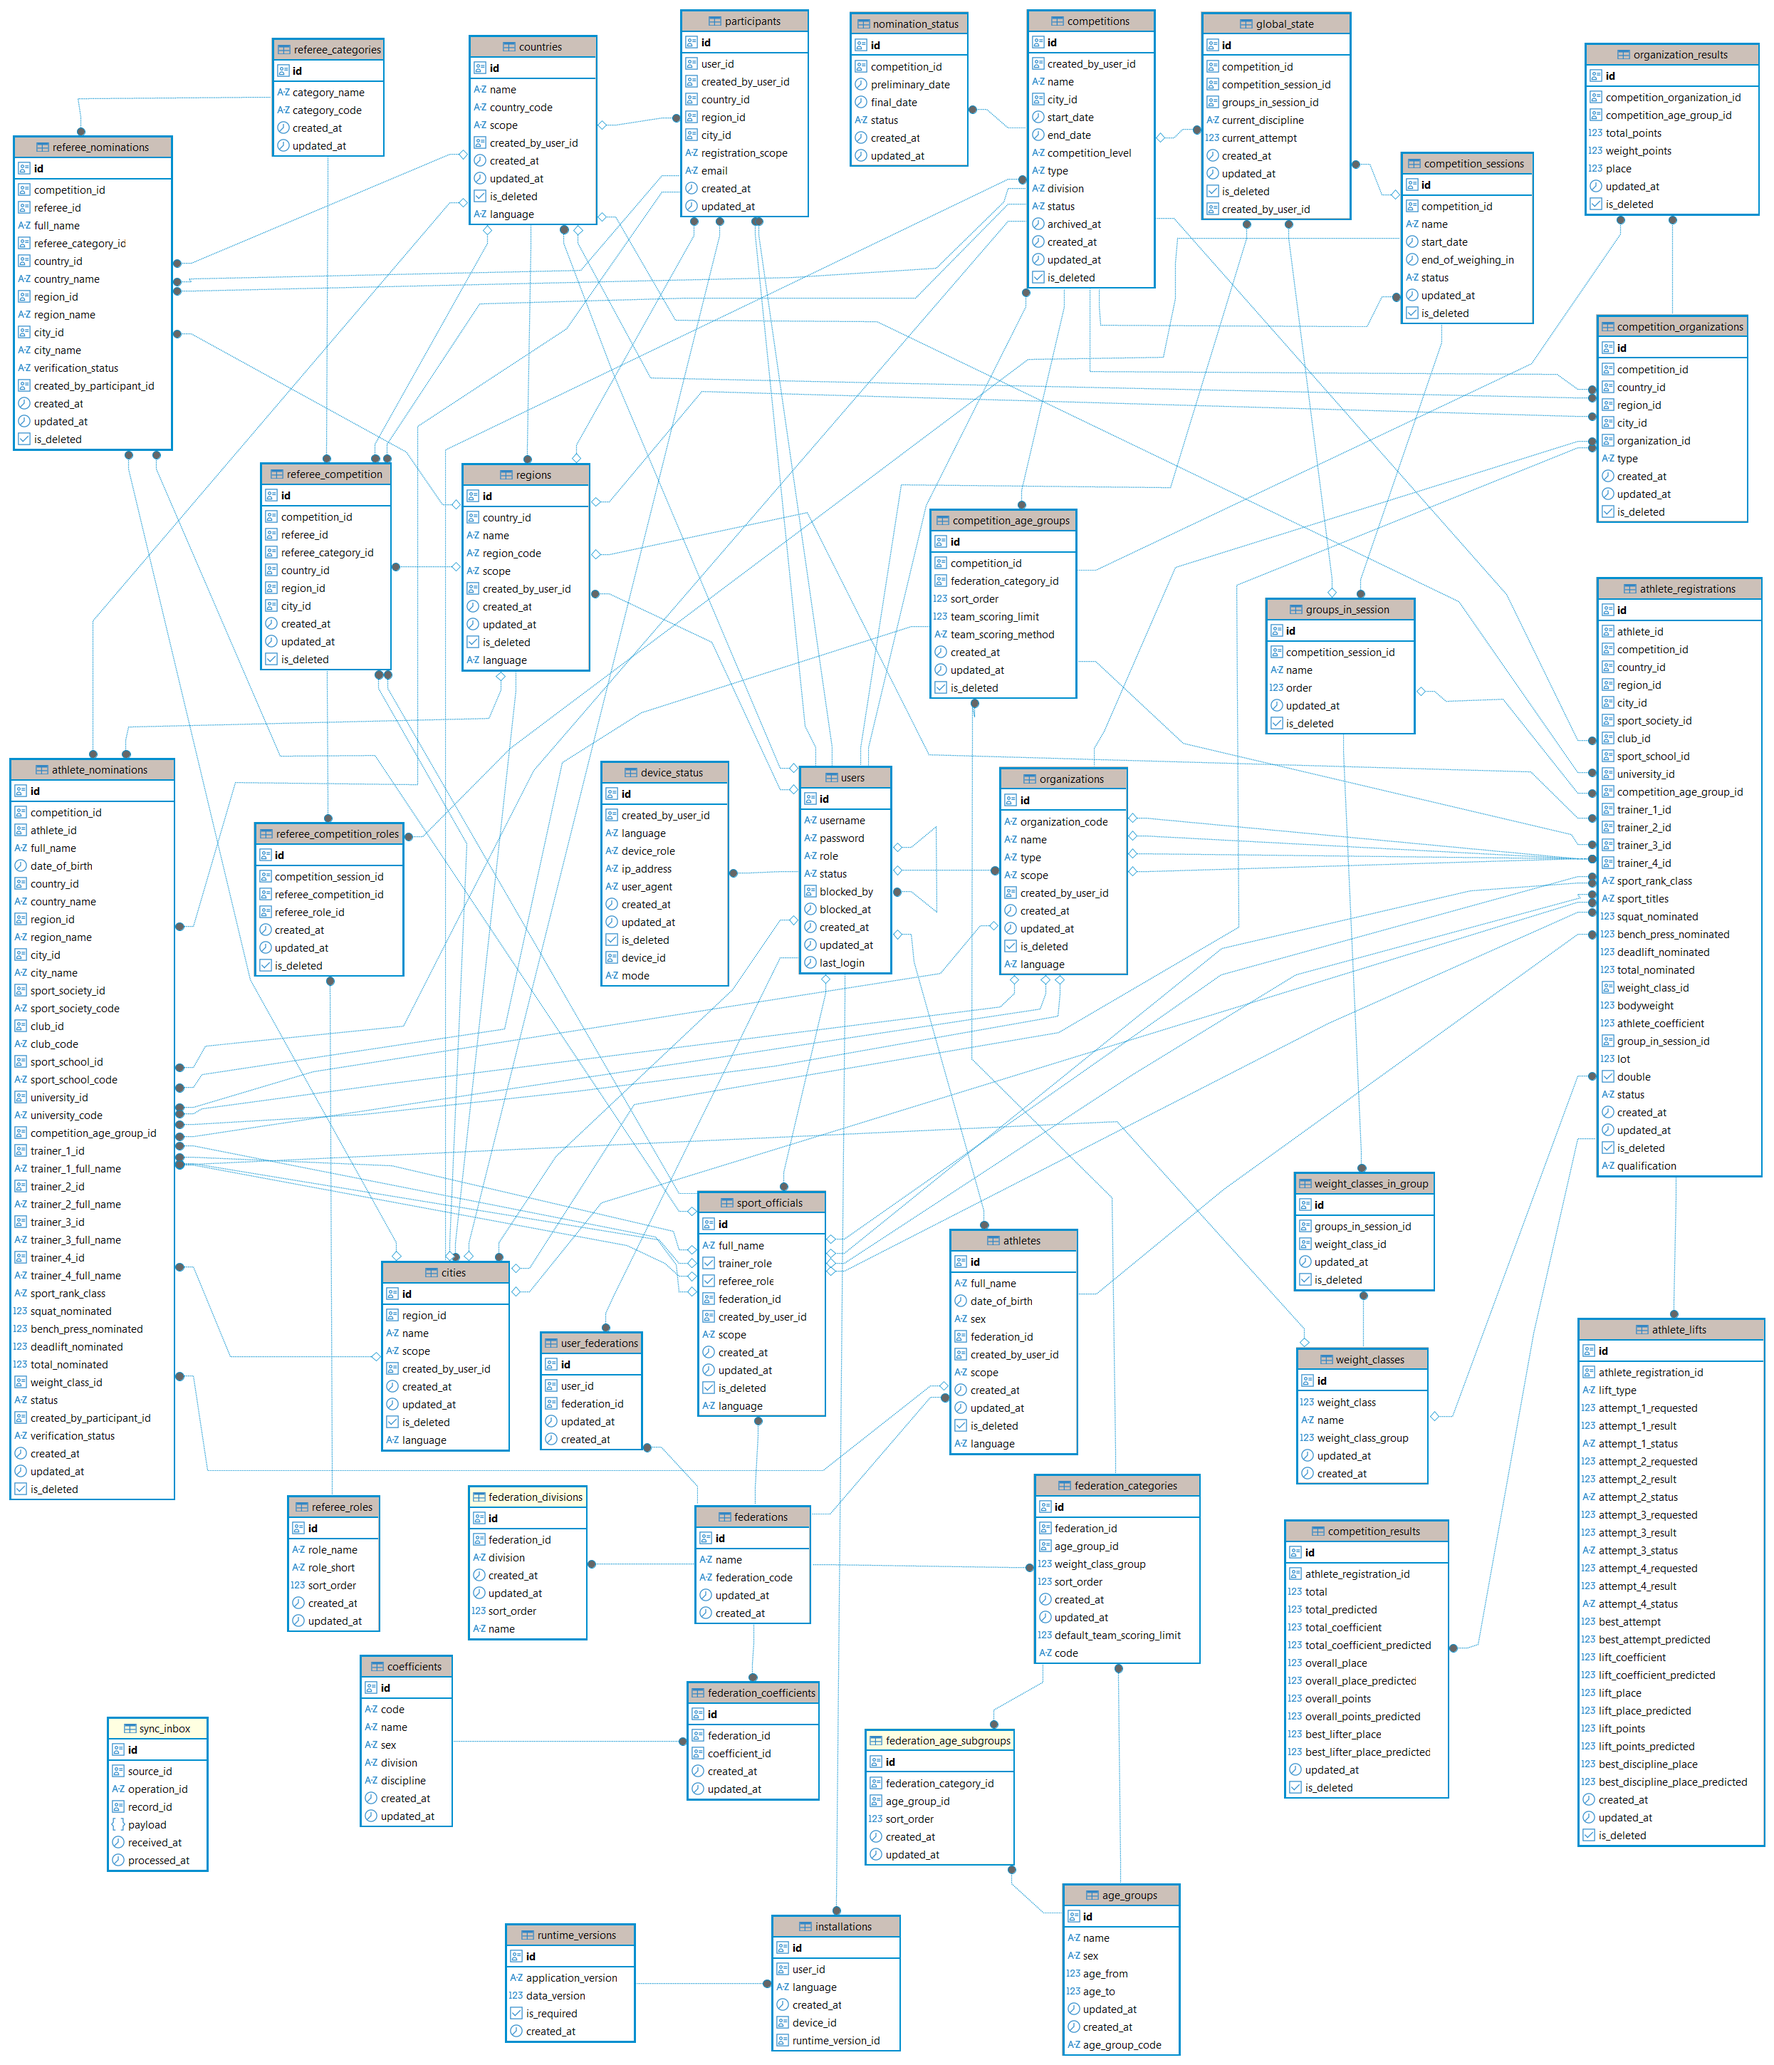
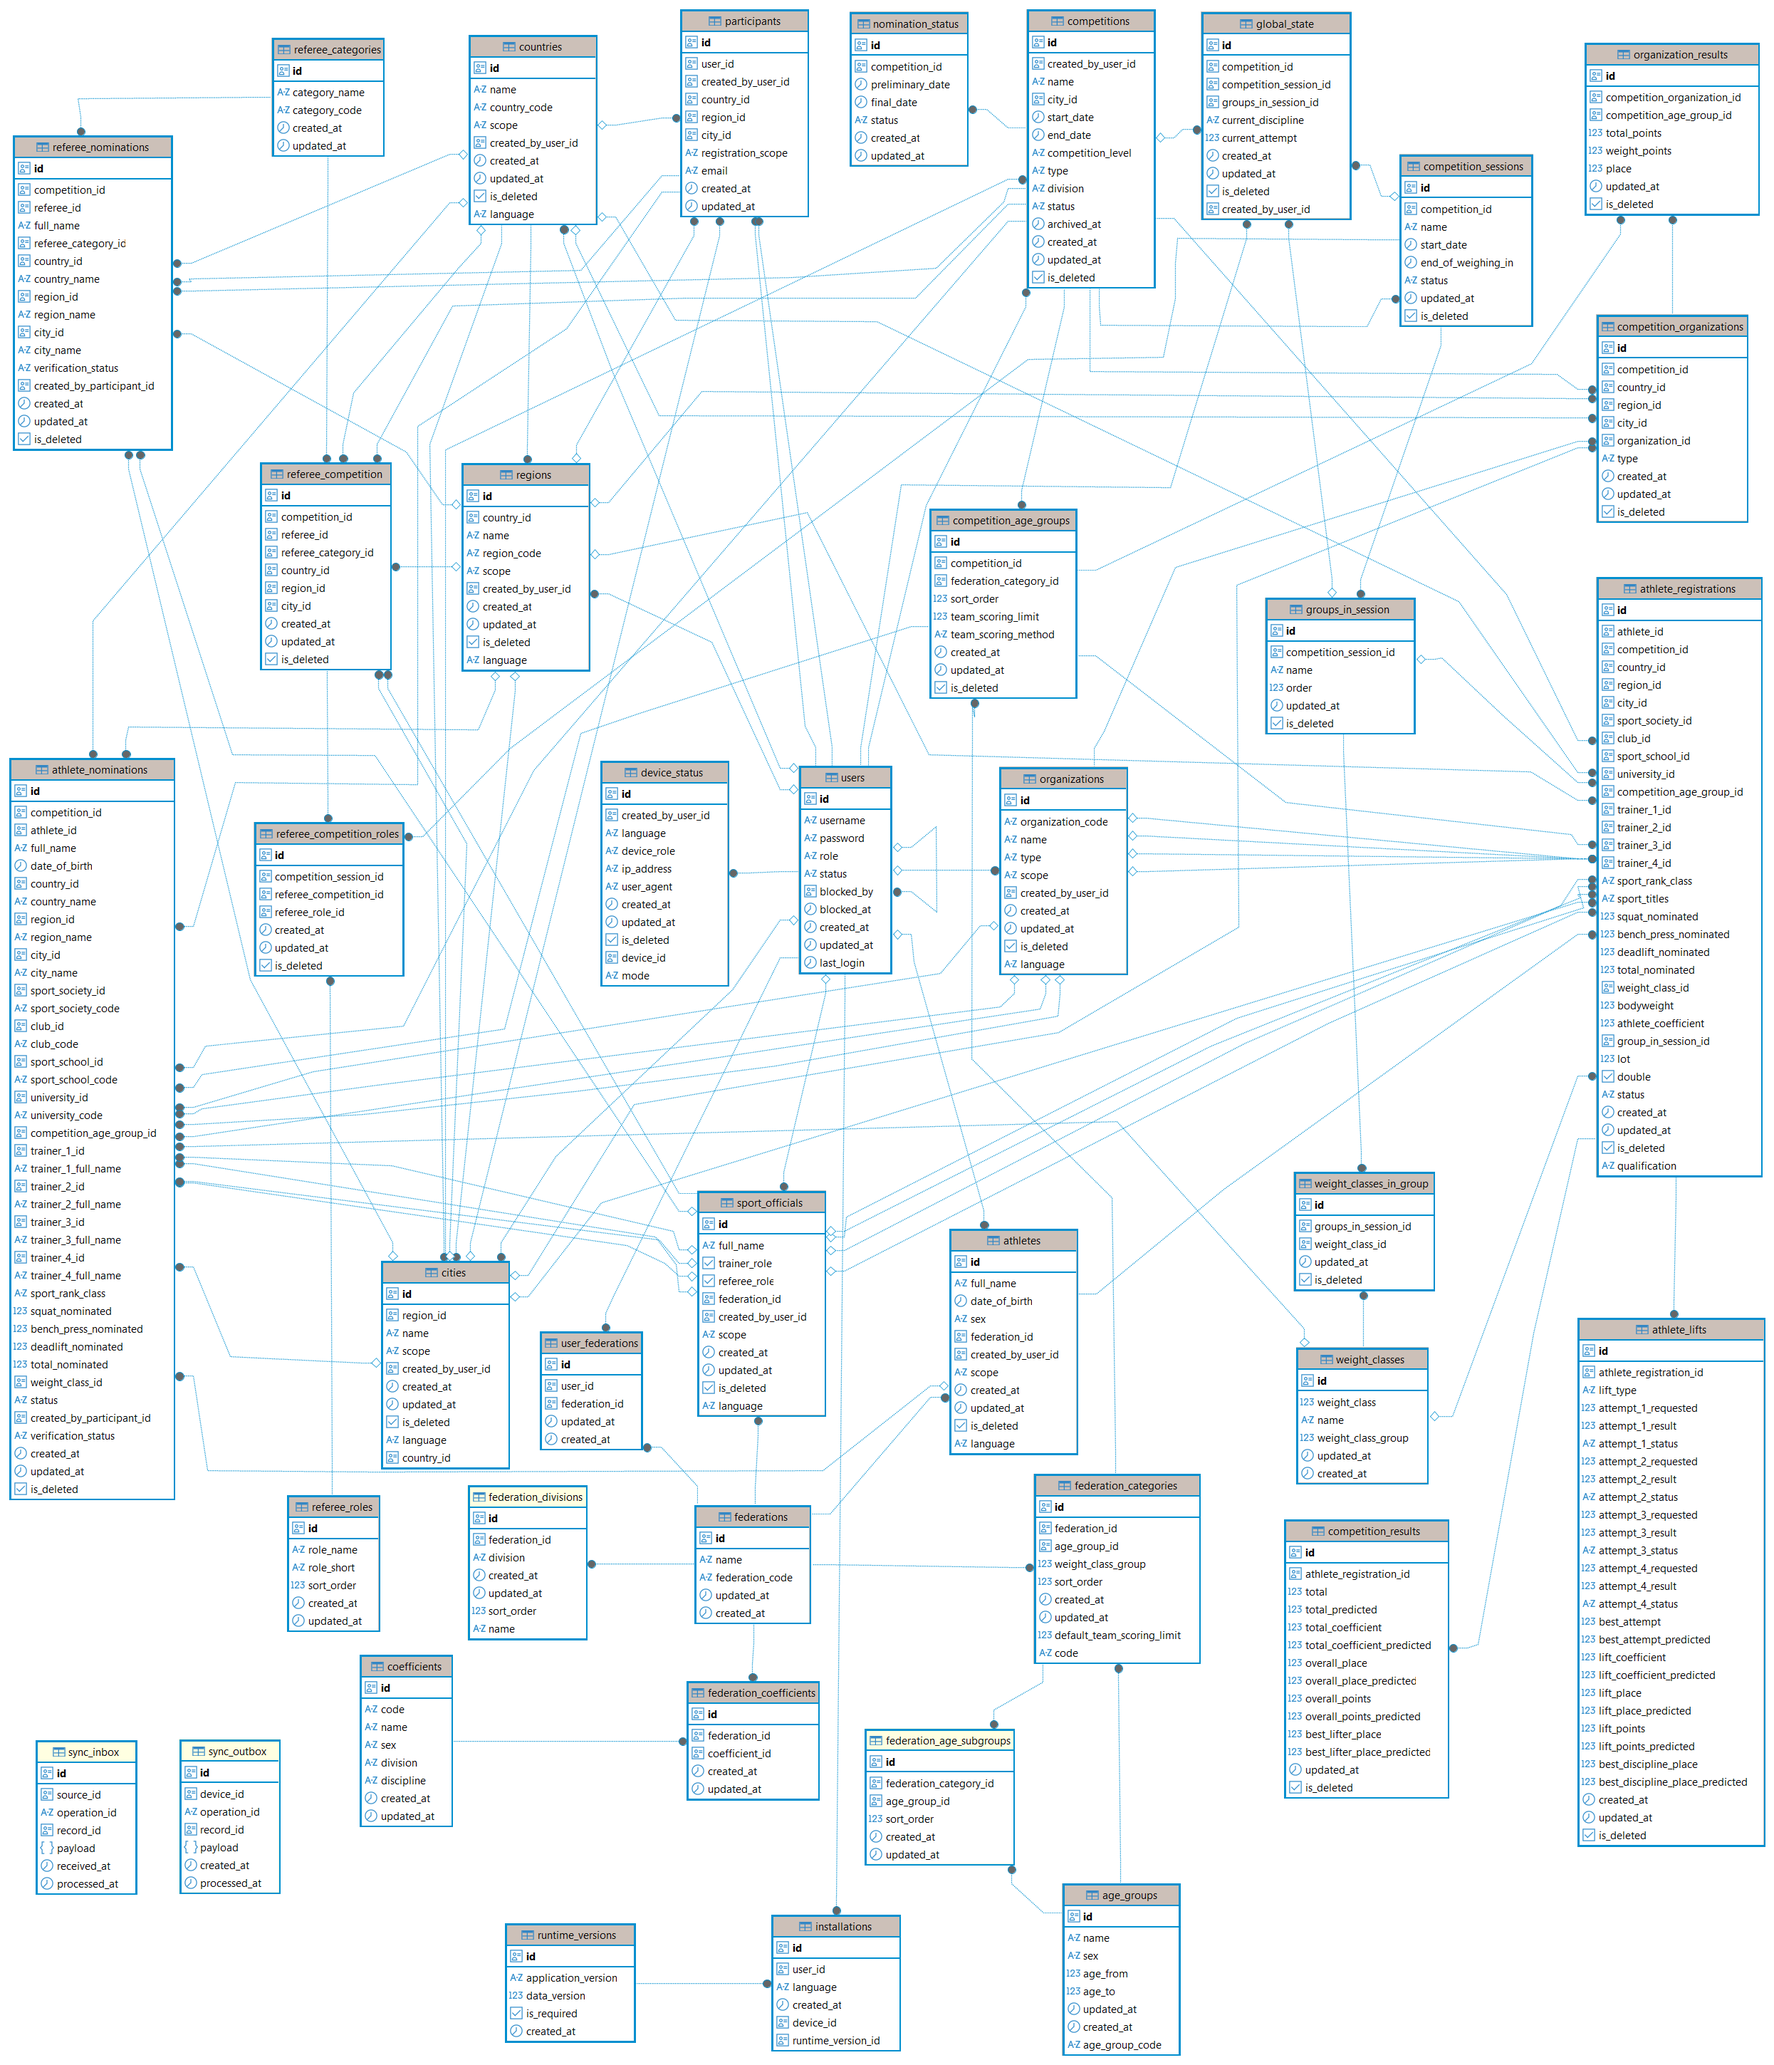
sync + outbox

diff --git a/backend/api/src/modules/sync/sync-outbox.service.ts b/backend/api/src/modules/sync/sync-outbox.service.ts
@@ -1,0 +1,41 @@
+import { Injectable } from '@nestjs/common';
+
+import { PrismaService } from '../prisma/prisma.service';
+import type { SyncQueueDto } from './dto/sync-queue.dto';
+
+@Injectable()
+export class SyncOutboxService {
+
+    constructor(
+        private readonly prisma: PrismaService,
+    ) {}
+
+    async createForDevices(data: SyncQueueDto): Promise<void> {
+
+        const devices = await this.prisma.deviceStatus.findMany({
+            where: {
+                device_id: {
+                    not: data.source_id,
+                },
+                is_deleted: false,
+            },
+            select: {
+                device_id: true,
+            },
+            distinct: ['device_id'],
+        });
+
+        if (devices.length === 0) {
+            return;
+        }
+
+        await this.prisma.syncOutbox.createMany({
+            data: devices.map((device) => ({
+                device_id: device.device_id,
+                operation_id: data.operation_id,
+                record_id: data.record_id,
+                payload: data.payload,
+            })),
+        });
+    }
+}

diff --git a/runtime/src/app/sync/services/sync.service.ts b/runtime/src/app/sync/services/sync.service.ts
@@ -18,7 +18,7 @@ import {
 } from '#shared-sql';
 
 import { PgliteService } from '../../database/services/pglite.service';
-import { QueueSyncResult } from '../dto/queue-sync-result';
+import { SyncQueueService } from './sync-queue.service';
 import { SnapshotDto } from '../dto/snapshot.dto';
 
 @Injectable({
@@ -44,6 +44,7 @@ export class SyncService {
 
   constructor(
     private readonly pgliteService: PgliteService,
+    private readonly syncQueueService: SyncQueueService,
     private readonly http: HttpClient,
   ){}
 
@@ -66,8 +67,11 @@ export class SyncService {
     try {
       console.log('Queue synchronization started...');
 
-      // Pushing local change queue (if any)
-      const result = await this.pg.query(`
+      await this.syncQueueService.sync();
+
+
+
+/*      const result = await this.pg.query(`
         SELECT
           id,
           source_id,
@@ -99,7 +103,7 @@ export class SyncService {
           `);
         }
       }
-
+*/
       console.log('Queue synchronizated');
     } catch (err) {
       console.error('Network error while syncing:', err);

diff --git a/backend/api/src/modules/sync/sync.controller.ts b/backend/api/src/modules/sync/sync.controller.ts
@@ -3,9 +3,11 @@ import { JwtAuthGuard } from '../../guards/jwt-auth.guard';
 import { CurrentUser } from '../../guards/current-user.decorator';
 import { SyncService } from './sync.service';
 
+/*
 interface SyncDto {
     changes: any[];
 }
+*/
 
 @Controller('api/sync')
 export class SyncController {
@@ -13,7 +15,7 @@ export class SyncController {
     constructor(
         private readonly syncService: SyncService,
     ) {}
-
+/*
     @Post()
     @HttpCode(HttpStatus.OK)
     async syncData(@Body() syncDto: SyncDto) {
@@ -22,7 +24,7 @@ export class SyncController {
             syncDto.changes,
         );
     }
-
+*/
     @Get('snapshot')
     @UseGuards(JwtAuthGuard)
     async getSnapshot(

diff --git a/backend/api/src/modules/sync/sync.module.ts b/backend/api/src/modules/sync/sync.module.ts
@@ -19,6 +19,7 @@ import { CreatedByUserStep } from './snapshot-pipeline/created-by-user-step';
 import { CompetitionRuntimeStep } from './snapshot-pipeline/competition-runtime-step';
 import { OrganizationResultStep } from './snapshot-pipeline/organization-result-step';
 import { SyncInboxService } from './sync-inbox.service';
+import { SyncOutboxService } from './sync-outbox.service';
 
 @Module({
   controllers: [SyncController],
@@ -84,7 +85,8 @@ import { SyncInboxService } from './sync-inbox.service';
 
     SyncService, 
     SyncGateway, 
-    SyncInboxService,
+    SyncInboxService, 
+    SyncOutboxService,
   ],
 })
 export class SyncModule {}

diff --git a/backend/api/src/modules/sync/sync-outbox.service.spec.ts b/backend/api/src/modules/sync/sync-outbox.service.spec.ts
@@ -1,0 +1,18 @@
+import { Test, TestingModule } from '@nestjs/testing';
+import { SyncOutboxService } from './sync-outbox.service';
+
+describe('SyncOutboxService', () => {
+  let service: SyncOutboxService;
+
+  beforeEach(async () => {
+    const module: TestingModule = await Test.createTestingModule({
+      providers: [SyncOutboxService],
+    }).compile();
+
+    service = module.get<SyncOutboxService>(SyncOutboxService);
+  });
+
+  it('should be defined', () => {
+    expect(service).toBeDefined();
+  });
+});

diff --git a/backend/api/src/modules/sync/sync.service.ts b/backend/api/src/modules/sync/sync.service.ts
@@ -12,7 +12,7 @@ export class SyncService {
         private readonly prisma: PrismaService, 
         private readonly pipeline: SnapshotPipelineService,
     ) {}
-
+/*
     async processQueueSync(
         changes: SyncQueueDto[],
     ) {
@@ -51,7 +51,7 @@ export class SyncService {
             throw new InternalServerErrorException(`Sync failed: ${message}`,);
         }
     }
-
+*/
     async getDatabaseSnapshot(
         userId: string,
         language: string,

diff --git a/runtime/src/app/sync/services/socket.service.ts b/runtime/src/app/sync/services/socket.service.ts
@@ -12,4 +12,17 @@ export class SocketService {
   constructor() {
     this.socket = io(environment.apiUrl);
   }
+
+  waitForConnection(): Promise<void> {
+
+    if (this.socket.connected) {
+      return Promise.resolve();
+    }
+
+    return new Promise((resolve) => {
+      this.socket.once('connect', () => {
+        resolve();
+      });
+    });
+  }
 }

diff --git a/shared-sql/queries/competitions/create.ts b/shared-sql/queries/competitions/create.ts
@@ -6,7 +6,7 @@ WITH existing_country AS (
     WHERE
         LOWER(name) = LOWER($4) 
         AND language = $6
-
+        AND is_deleted = false
     LIMIT 1
 ),
 
@@ -54,7 +54,7 @@ existing_city AS (
             SELECT id FROM country
         )
         AND c.language = $6
-
+        AND c.is_deleted = false
     LIMIT 1
 ),
 

diff --git a/runtime/src/app/sync/services/sync-queue.service.ts b/runtime/src/app/sync/services/sync-queue.service.ts
@@ -50,6 +50,8 @@ export class SyncQueueService {
 
   async sync(): Promise<void> {
 
+    await this.socketService.waitForConnection();
+
     const result = await this.pgliteService.query<SyncQueueItem>(
       `
       SELECT

diff --git a/runtime/src/app/popup/components/competition-popup/services/competition-popup.service.ts b/runtime/src/app/popup/components/competition-popup/services/competition-popup.service.ts
@@ -69,5 +69,7 @@ export class CompetitionPopupService {
       );
       
     });
+
+    await this.syncQueueService.sync();
   }
 }
